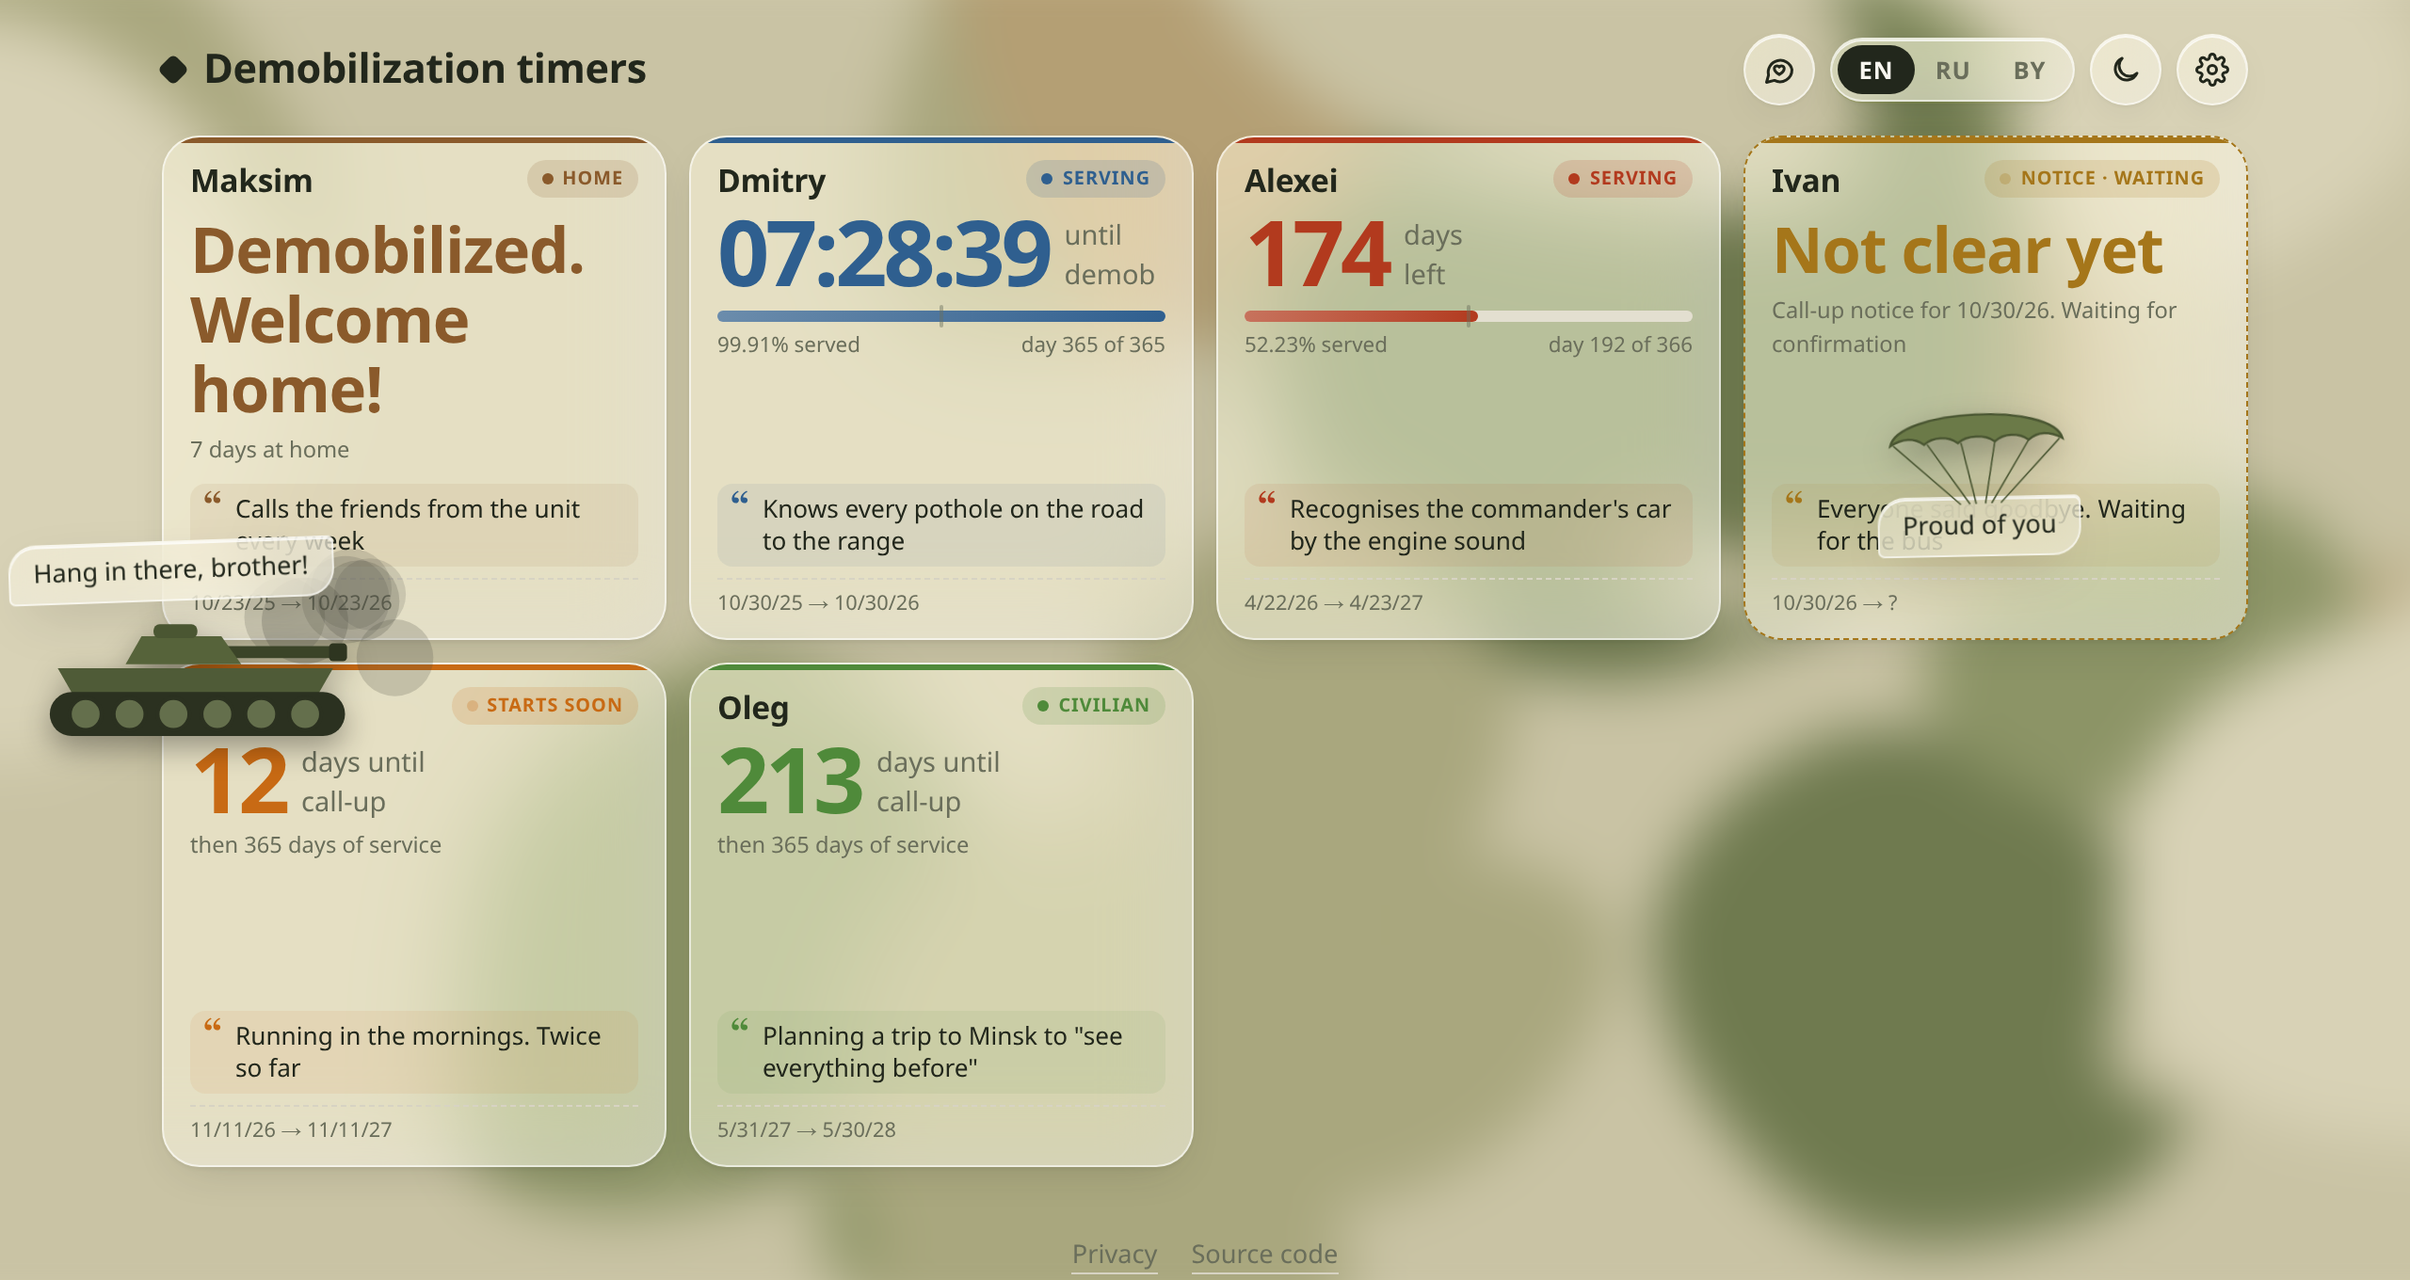
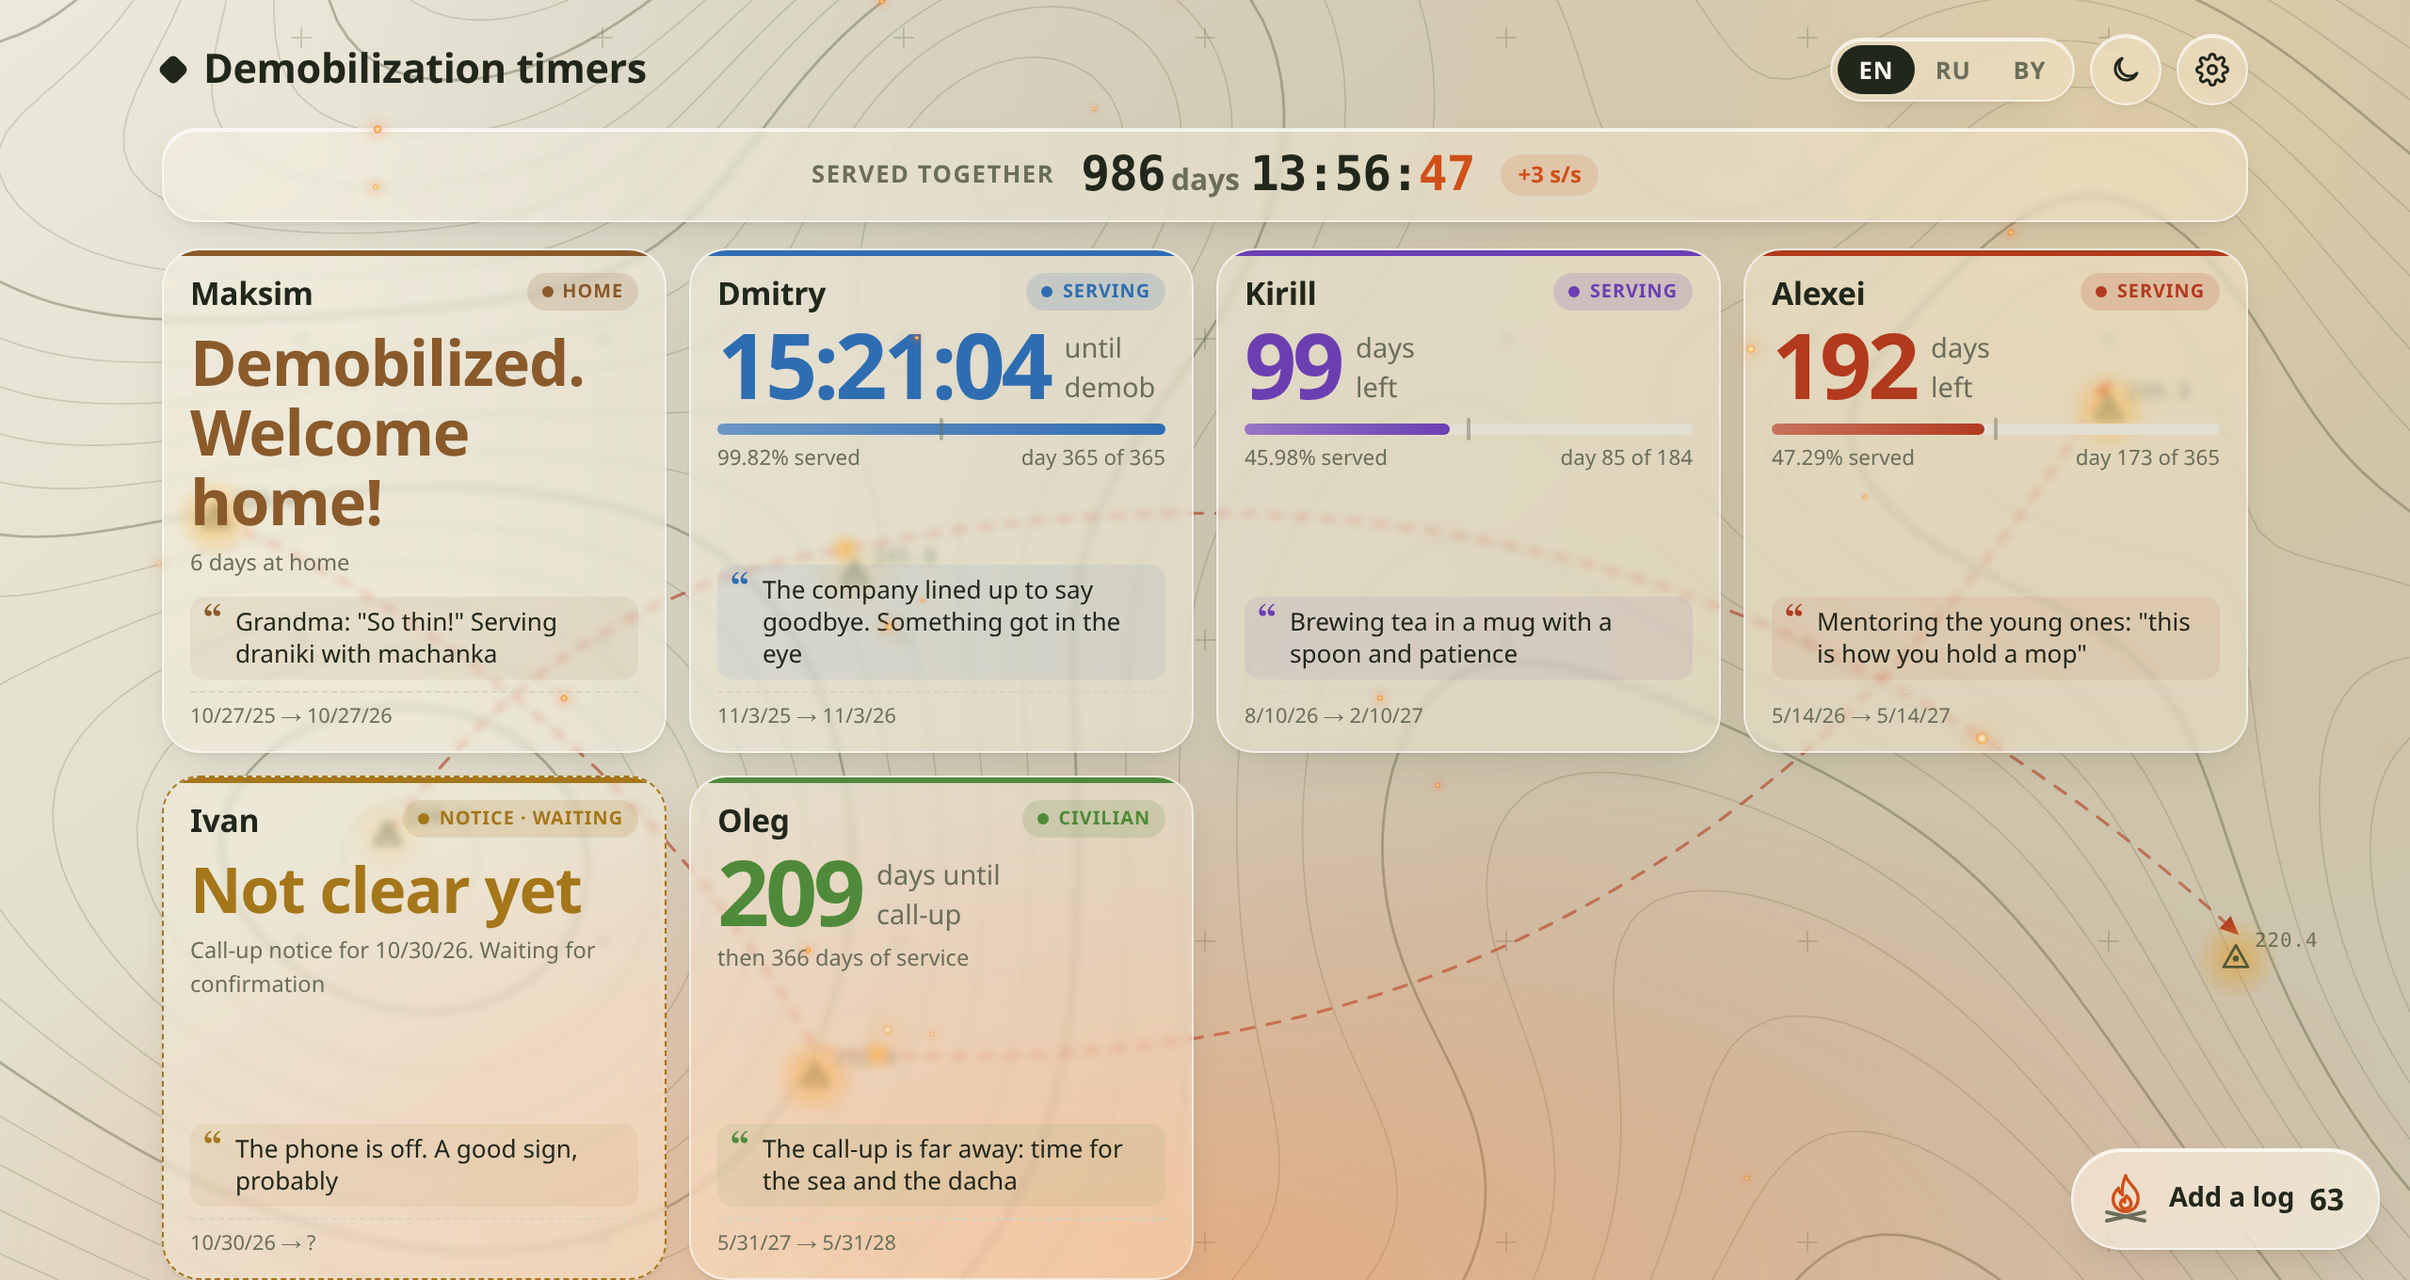
Clearer README with new screenshots
New light, dark, phone and admin screenshots showing the map background,
the shared counter and the fire button. The README is regrouped: what is
on the page, quick start, settings as tables with their defaults.

diff --git a/README.md b/README.md
@@ -1,130 +1,165 @@
 # dmb-timers
 
-A small self-hosted website for posting demob (demobilization) timers: countdowns to the end of military service for one or many people on a single page.
+A small self-hosted website with demob (demobilization) timers: countdowns to the end of military service for one or many people on one page.
 
 <table>
   <tr>
-    <td width="50%">
-      <img src="docs/screenshots/timers-light.png" alt="Timers page in Russian, light theme" width="100%">
-    </td>
-    <td width="50%">
-      <img src="docs/screenshots/timers-dark.png" alt="Timers page in Russian, dark theme" width="100%">
-    </td>
+    <td width="50%"><img src="docs/screenshots/timers-light.png" alt="Timers page, light theme" width="100%"></td>
+    <td width="50%"><img src="docs/screenshots/timers-dark.png" alt="Timers page, dark theme" width="100%"></td>
+  </tr>
+  <tr>
+    <td width="50%" align="center"><img src="docs/screenshots/timers-phone.png" alt="Timers page on a phone, with the tip about the fire button" width="60%"></td>
+    <td width="50%"><img src="docs/screenshots/admin.png" alt="Admin panel, Fire tab" width="100%"></td>
   </tr>
 </table>
 
-- Days until the end of service, a progress bar, and the current day of service. In the last day the hours, minutes and seconds become the big number; next to the days they are optional
-- Card states in their own colors: civilian (green), starts soon (orange), serving, and home
-- A call-up notice date can be the start of service: from that date the card says "Not clear yet" instead of a countdown, until the admin confirms that the person has left
-- A topographic map background (contour lines and map crosses) with glowing trig points and planned routes where units creep along, behind translucent glass cards, in light and dark variants
-- A fire button, so the guys can see that people visit and wait for them: every visitor can add a log to the fire once every 12 hours (counted by IP), and the count starts over every 45 days. The more logs, the more sparks of fire dust drift over the cards, the bigger and hotter they burn, and the brighter the glow rising from the bottom of the screen. A tap throws a burst of sparks, logs added by others arrive as sparks from below, and the first visit shows a short tip about the button
-- A shared counter above the cards: everyone's time served added up (or, if you choose, the time left for everyone). Every second it adds a second for each person serving now, so with five people serving the seconds run five times faster
-- Funny statuses that follow the real service timeline: the oath, the halfway point, "100 days to the order", the train home. Each status has its own time window (days served or days left, season, time of day), so nobody is waiting at the train station two days early
-- Interface in English, Russian and Belarusian, with a language switch on every page
-- Square timer cards that fit any screen. On phones each card is a wide row with big digits (or two small squares per row, if you choose), the header fits one line, and the language switch becomes one button that steps through the languages
-- Light and dark themes: they follow the system setting, or can be switched with the sun/moon button
-- A password-protected admin panel to add people and set service dates
-- No database, no dependencies, no tracking. One Node.js file and a JSON config file
+No database, no dependencies, no tracking: one Node.js file and one JSON config file.
 
-## Quick start (Docker image)
+## What is on the page
 
-A ready image is published to Docker Hub as [`severnbli/dmb-timers`](https://hub.docker.com/r/severnbli/dmb-timers) on every push to `main`.
+**Timer cards.** One card per person, with the days left, a progress bar and the current day of service. On the last day, hours, minutes and seconds become the big number. Each state has its own color: civilian (green), starts soon (orange), serving, and home.
 
-```bash
-docker run -d --name dmb-timers -p 8080:3000 -e ADMIN_PASSWORD=change-me -e SESSION_SECRET=$(openssl rand -hex 32) -v dmb-timers-data:/data --restart unless-stopped severnbli/dmb-timers:latest
-```
+**Call-up notices.** The start date can be a call-up notice. From that date the card says "Not clear yet" instead of counting down, until the admin confirms that the person has left.
 
-Open `http://localhost:8080` for the timers and `http://localhost:8080/admin` for the admin panel.
+**Funny statuses.** Each card shows a short status that follows the real service timeline: the oath, the halfway point, "100 days to the order", the train home. Every status has its own time window, so nobody is waiting at the station two days early.
 
-## Docker Compose
+**Shared counter.** Above the cards, everyone's time served is added up into one number (or the time left for everyone, if you choose). Every second it adds one second for each person serving now, so with five people serving, the seconds run five times faster.
 
-1. Copy the example settings and set a real password:
+**Fire button.** A button in the corner lets visitors show the guys that someone is visiting and waiting for them:
 
-   ```bash
-   cp .env.example .env
-   ```
+- Each tap adds a log to a shared fire. One visitor (IP address) can add one log every 12 hours.
+- The count starts over from zero every 45 days.
+- The more logs, the more sparks of fire dust drift over the cards, the bigger and hotter they are, and the brighter the glow from the bottom of the screen.
+- A tap throws a burst of sparks. Logs added by other visitors arrive as sparks from below.
+- On the first visit, a short tip explains the button.
 
-2. Start it:
+**Looks.** A topographic map background with glowing trig points and routes, glass cards, and light and dark themes (they follow the system, or switch with the sun/moon button). The interface is in English, Russian and Belarusian.
 
-   ```bash
-   docker compose up -d --build
-   ```
+**Phones.** Each card is a wide row with big digits (or two small squares per row, if you choose). The header fits on one line, and the language switch becomes one button that steps through the languages.
 
-The bundled `docker-compose.yml` builds the image from this repository and publishes it on port `777`. To use the prebuilt image instead, replace `build: .` with `image: severnbli/dmb-timers:latest`. Data is kept in the `timer-data` volume.
+## Quick start
 
-## Build the image yourself
+A ready image is published to Docker Hub as [`severnbli/dmb-timers`](https://hub.docker.com/r/severnbli/dmb-timers) on every push to `main`:
 
 ```bash
-docker build -t dmb-timers .
+docker run -d --name dmb-timers -p 8080:3000 \
+  -e ADMIN_PASSWORD=change-me -e SESSION_SECRET=$(openssl rand -hex 32) \
+  -v dmb-timers-data:/data --restart unless-stopped severnbli/dmb-timers:latest
 ```
 
-## Run without Docker
+Then open:
 
-Node.js 18 or newer is enough. There is nothing to install.
+- `http://localhost:8080` for the timers
+- `http://localhost:8080/admin` for the admin panel
+
+### With Docker Compose
+
+```bash
+cp .env.example .env      # then set a real password in .env
+docker compose up -d --build
+```
+
+The bundled `docker-compose.yml` builds the image from this repository and serves it on port `777`. To use the prebuilt image instead, remove the `build: .` line. Data is kept in the `timer-data` volume.
+
+### Without Docker
+
+Node.js 18 or newer is enough, there is nothing to install:
 
 ```bash
 ADMIN_PASSWORD=change-me DATA_DIR=./data TZ=Europe/Minsk node server.js
 ```
 
-## Configuration
+If the site is reachable from the internet, put it behind a reverse proxy with HTTPS.
 
-| Variable | Default | Description |
+## Environment variables
+
+| Variable | Default | What it does |
 | --- | --- | --- |
 | `ADMIN_PASSWORD` | (required) | Password for `/admin` |
 | `SESSION_SECRET` | random on every start | Signs admin sessions. Set a fixed value to stay logged in across restarts |
 | `SESSION_HOURS` | `12` | How long an admin session lasts |
 | `TZ` | `Europe/Minsk` | Time zone for month arithmetic (start + 6 or 12 months) and for status timing (seasons, wake-up, lights-out) |
 | `PORT` | `3000` | HTTP port inside the container |
-| `TRUST_PROXY` | (off) | Set to `1` behind a reverse proxy, so the login and fire button limits use the visitor's address from `X-Forwarded-For` |
+| `TRUST_PROXY` | (off) | Set to `1` behind a reverse proxy, so the login and fire button limits see the visitor's address from `X-Forwarded-For` |
 | `DATA_DIR` | `/data` | Where `config.json` is stored |
 
-Put the site behind a reverse proxy with HTTPS if it is reachable from the internet.
+## Admin panel
 
-## Using the admin panel
+The panel has four tabs and remembers the last one you opened. Everything except the person editor saves as soon as you change it.
 
-- The panel has four tabs: **People**, **Fire**, **Settings** and **History**. It remembers the last one you opened.
-- **People** is a short list, one row per person, with a search box once there are six or more. Tap a row to edit that person in a window; **Save** closes it.
-- **Add a person**, and their editor opens right away: set the service start and the duration: 1 year, half a year, or a custom end date.
-- **Label** and **Message when finished** can be left empty. Each visitor then sees the default text in their own language.
-- **Start from now** restarts the timer from the current moment.
+### People
+
+- **Add a person**: their editor opens right away. Set the service start and the duration: 1 year, half a year, or a custom end date.
+- Tap a row to edit that person. A search box appears once there are six or more people.
+- **Label** and **Message when finished** can stay empty: each visitor then sees the default text in their own language.
+- **Start from now** restarts the timer from this moment.
 - **Start is the call-up notice date** marks a start that is not confirmed yet. When the date comes, the person gets a **Confirm departure** button in the list.
-- **Settings** also sets the cards per row on phones (one wide card or two small squares) and the shared counter: whether it is shown and whether it counts the time served or the time left. Unconfirmed call-ups are not counted.
-- **Fire** sets the button and the fire dust: whether the button is shown, how many hours one visitor waits between logs (12), after how many days the count starts over (45), and the sparks per 1440×900 screen with no logs (15) and at full fire (120), reached at 100 logs. It shows the current count and when it starts over, with a button to start over now.
-- **Fire**, **Settings** (Look and Cards) save as soon as you change them: the background, the clock next to the days, seconds, progress bars and statuses.
+
+### Fire
+
+| Setting | Default | What it does |
+| --- | --- | --- |
+| Show the fire button | on | Shows or hides the button |
+| One log per visitor (IP), hours | `12` | How long one visitor waits between logs |
+| Count starts over every, days | `45` | The log count goes back to zero after this many days |
+| Sparks drift over the page | on | Shows or hides the fire dust |
+| Sparks with no logs | `15` | Sparks on a 1440×900 screen when the fire is empty (smaller screens get fewer) |
+| Sparks at full fire | `120` | Sparks on a 1440×900 screen when the fire is full |
+| Logs for full fire | `100` | How many logs make a full fire. The first logs make the biggest difference |
+
+The tab also shows the current count and when it starts over, with a **Start over** button to reset it now.
+
+### Settings
+
+- **Look**: page title and the map background.
+- **Cards**: hours, minutes and seconds next to the days, seconds, progress bars, statuses, and cards per row on phones (one wide card or two small squares).
+- **Shared counter**: show or hide it, and whether it counts the time served or the time left. Unconfirmed call-ups are not counted.
+
+### History
+
+The last 30 changes made in the panel.
 
 ## Localization
 
-All interface text lives in [`public/i18n.js`](public/i18n.js), with one dictionary per language (`en-US`, `ru-RU`, `be-BY`). The language is picked from the browser settings the first time and can be switched with the EN / RU / BY buttons. The choice is saved in the browser's local storage.
+All interface text is in [`public/i18n.js`](public/i18n.js), one dictionary per language (`en-US`, `ru-RU`, `be-BY`). The first time, the language comes from the browser settings. After that the EN / RU / BY switch decides, and the choice is saved in the browser.
 
-To add a language, add a dictionary to `DICT` and an entry to `LANGS`, then add a text column to every status in `public/statuses.js` and to the `COL` map in `public/index.html`, and add a section to `public/privacy.html`.
+To add a language:
+
+1. Add a dictionary to `DICT` and an entry to `LANGS` in `public/i18n.js`.
+2. Add a text column to every status in `public/statuses.js` and to the `COL` map in `public/index.html`.
+3. Add a section to `public/privacy.html`.
 
 ## Statuses
 
-Statuses are in [`public/statuses.js`](public/statuses.js). Each entry has phases (`soon`, `summons`, `serve`, `done`), a rule, and the text in each language:
+Statuses are in [`public/statuses.js`](public/statuses.js). Each entry has the phases it shows in (`soon`, `summons`, `serve`, `done`), a rule, and the text in each language:
 
 ```js
 ['serve', {l: [0, 2], w: 3}, 'Running around with the clearance sheet', 'Бегает с обходным листом', 'Бегае з абходным лістом'],
 ```
 
-Rule keys are day ranges `[min, max)`, where `max` can be left out:
+Rule keys are day ranges `[min, max)`, and `max` can be left out:
 
-- `u`: days until the call-up
-- `d`: days served
-- `l`: days left
-- `a`: days since demobilization
-- `p`: percent served
+| Key | Meaning |
+| --- | --- |
+| `u` | days until the call-up |
+| `d` | days served |
+| `l` | days left |
+| `a` | days since demobilization |
+| `p` | percent served |
+| `m` | months (server time zone) |
+| `md` | a date range as `MMDD` (server time zone) |
+| `h` | an hour range (server time zone) |
+| `w` | weight: higher shows up more often |
 
-Calendar and clock keys use the server time zone:
-
-- `m`: months
-- `md`: a date range as `MMDD`
-- `h`: an hour range
-
-`w` is a weight that makes short milestones show up more often. The page picks a status at random, weighted by `w`, from those whose window fits. The status changes every 3 hours and is the same for every visitor.
+The page picks a status at random, weighted by `w`, from those whose window fits. It changes every 3 hours and is the same for every visitor.
 
 ## Privacy
 
-The site sets no cookies for visitors and loads nothing from third parties. The fire button keeps only a shared count; to allow one log per visitor, a salted hash of the IP address stays in memory until the wait is over. The full notice is at `/privacy` and is linked from every page. Names and dates entered in the admin panel are public, so get people's consent before you add them.
+- No cookies for visitors, nothing loaded from third parties.
+- The fire button keeps only a shared count. To allow one log per visitor, a salted hash of the IP address stays in memory until the wait is over. It is never written to disk.
+- Names and dates entered in the admin panel are public, so get people's consent before you add them.
+
+The full notice is at `/privacy` and is linked from every page.
 
 ## License
 
